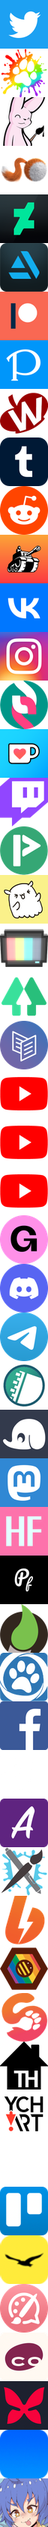
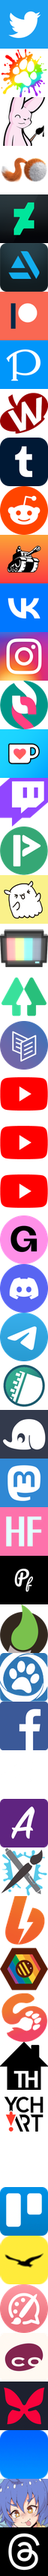
Add Threads definition (#119)

diff --git a/app/models/artist_url.rb b/app/models/artist_url.rb
@@ -34,6 +34,7 @@ class ArtistUrl < ApplicationRecord
     buzzly furrystation toyhouse ychart
     manual trello itaku artfol
     cohost inkblot bluesky omorashi
+    threads
   ].map.with_index { |v, index| [v, index] }.to_h
 
   def self.search(params)
